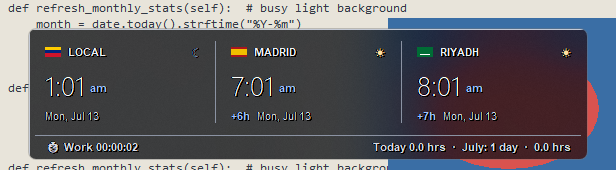
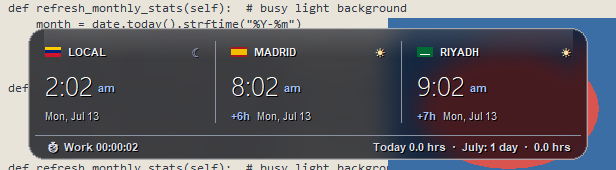
feat: live-rendered Liquid Glass replaces acrylic color-key approach
The acrylic theme painted the panel body in the transparent key color,
and Windows makes key-colored pixels mouse-transparent: right-clicks,
wheel, and drags fell through the glass to the window behind. The panel
body is now a live-rendered image: the window excludes itself from
screen capture (WDA_EXCLUDEFROMCAPTURE), grabs its own rectangle (which
then returns the backdrop), and processes it in PIL - gaussian blur at
half resolution, saturation boost, edge-band refraction via a zoomed
blend, wheel-controlled tint, specular rim, rounded-corner mask keyed
for click-through corners. Refreshes at 4fps idle / 15fps during drags,
pauses while hidden, and falls back to an opaque panel if the affinity
API fails. Caveat documented: the overlay is invisible to screenshots
and screen shares while glass is active.

diff --git a/clock.py b/clock.py
@@ -23,6 +23,10 @@ PAUSE_HOLD_SEC = 0.5
 # arrives on the overlay (leaving after a hover always hides immediately)
 PEEK_TIMEOUT_SEC = 2.5
 
+# Live liquid glass: backdrop refresh cadence (fast while dragging)
+GLASS_REFRESH_MS = 250
+GLASS_DRAG_REFRESH_MS = 66
+
 # Curated list of common timezones for the setup wizard dropdown
 COMMON_ZONES = [
     ("Local System Time", "Local"),
@@ -143,12 +147,12 @@ THEMES = {
         'sun': '#e8c47a',
         'moon': '#8fa8e8'
     },
-    # Liquid glass: card_bg equals the transparent key color, so the panel
-    # body punches through to the Windows acrylic backdrop (real blur);
-    # text and borders are drawn on top of the glass.
+    # Liquid glass: the panel body is a live-rendered image of the blurred
+    # backdrop (see render_glass), so its pixels are opaque and clickable.
+    # card_bg is only used by the popup menu and as the no-PIL fallback.
     'glass': {
         'bg': '#010101',
-        'card_bg': '#010101',
+        'card_bg': '#12141b',
         'card_border': '#c3c9d6',
         'divider': '#8b93a3',
         'text_main': '#ffffff',
@@ -310,13 +314,20 @@ class PopupMenu:
             self.close_all()
 
 
-# Conditional imports for System Tray support
+# Conditional imports: PIL powers the tray icon and the live glass theme
+HAS_PIL = False
+try:
+    from PIL import (Image, ImageDraw, ImageGrab, ImageTk,
+                     ImageFilter, ImageEnhance)
+    HAS_PIL = True
+except ImportError:
+    HAS_PIL = False
+
 HAS_TRAY = False
 try:
-    from PIL import Image, ImageDraw
     import pystray
     from pystray import MenuItem as item
-    HAS_TRAY = True
+    HAS_TRAY = HAS_PIL
 except ImportError:
     HAS_TRAY = False
 
@@ -350,6 +361,11 @@ class WorldClockApp:
         self.h_was_down = False     # tap H over the overlay to hide it
         self._tray_click_after = None
         self.tray_tooltip_counter = 9  # first refresh right after startup
+        self.glass_live = False     # live-rendered liquid glass active
+        self.glass_photo = None
+        self._glass_after = None
+        self._glass_masks = None
+        self._glass_boost = 0.0     # recent drag -> faster glass refresh
         self.stats_cache = None  # (month, today, unique_days, base_seconds, today_seconds)
 
         # If no clocks are configured (First run), show setup wizard
@@ -950,63 +966,140 @@ class WorldClockApp:
         if self.is_windows:
             self.root.wm_attributes("-transparentcolor", theme['bg'])
             is_glass = self.settings['theme'] == 'glass'
-            # On glass the wheel drives the acrylic tint strength instead:
-            # layered alpha stacked on the acrylic backdrop renders wrong
+            # On glass the wheel drives the tint strength instead: layered
+            # alpha stacked on the rendered glass just dims the text
             self.root.attributes(
                 '-alpha', 1.0 if is_glass else self.settings['opacity'])
-            self.apply_glass_effect(is_glass)
+            if is_glass:
+                self.start_glass_live()
+            else:
+                self.stop_glass_live()
         else:
             self.root.attributes('-alpha', self.settings['opacity'])
 
-    def apply_glass_effect(self, enable):
-        # Windows acrylic backdrop (SetWindowCompositionAttribute) behind the
-        # window: pixels of the transparent key color reveal blurred glass
-        # instead of plain desktop. Win11 also rounds the window corners so
-        # the slab itself has the panel shape. Undocumented but stable API;
-        # everything is guarded so failure just means no blur.
-        if not self.is_windows:
+    # ==========================================================================
+    # Live Liquid Glass
+    #
+    # The window is excluded from screen capture (WDA_EXCLUDEFROMCAPTURE),
+    # so grabbing its own rectangle returns exactly what is BEHIND it. That
+    # backdrop is blurred, saturated, edge-refracted, tinted and rim-lit in
+    # PIL, then painted as the panel body. The pixels are opaque, so mouse
+    # events work everywhere (the earlier acrylic color-key approach made
+    # the whole panel click-through). Side effect while glass is active:
+    # the overlay is invisible in screenshots and screen shares.
+    # ==========================================================================
+    def _root_hwnd(self):
+        import ctypes
+        return (ctypes.windll.user32.GetParent(self.root.winfo_id())
+                or self.root.winfo_id())
+
+    def start_glass_live(self):
+        if not (self.is_windows and HAS_PIL):
+            self.glass_live = False
             return
         try:
             import ctypes
+            ok = ctypes.windll.user32.SetWindowDisplayAffinity(
+                self._root_hwnd(), 0x11)  # WDA_EXCLUDEFROMCAPTURE
+            self.glass_live = bool(ok)
+        except Exception:
+            self.glass_live = False
+        if not self.glass_live:
+            return  # fallback: plain card_bg panel, everything still works
+        if self._glass_after is not None:
+            self.root.after_cancel(self._glass_after)
+            self._glass_after = None
+        self.glass_tick()
 
-            class ACCENT_POLICY(ctypes.Structure):
-                _fields_ = [('AccentState', ctypes.c_uint),
-                            ('AccentFlags', ctypes.c_uint),
-                            ('GradientColor', ctypes.c_uint),
-                            ('AnimationId', ctypes.c_uint)]
+    def stop_glass_live(self):
+        if self._glass_after is not None:
+            self.root.after_cancel(self._glass_after)
+            self._glass_after = None
+        self.glass_photo = None
+        self._glass_masks = None
+        if self.glass_live:
+            self.glass_live = False
+            try:
+                import ctypes
+                ctypes.windll.user32.SetWindowDisplayAffinity(
+                    self._root_hwnd(), 0)
+            except Exception:
+                pass
 
-            class WCA_DATA(ctypes.Structure):
-                _fields_ = [('Attribute', ctypes.c_int),
-                            ('Data', ctypes.c_void_p),
-                            ('SizeOfData', ctypes.c_size_t)]
+    def glass_tick(self):
+        self._glass_after = None
+        if self.settings['theme'] != 'glass' or not self.glass_live:
+            return
+        if not self.hidden:
+            try:
+                self.glass_photo = self.render_glass()
+            except Exception as e:
+                print("Glass render failed:", e)
+        fast = time.monotonic() - self._glass_boost < 1.0
+        self._glass_after = self.root.after(
+            GLASS_DRAG_REFRESH_MS if fast else GLASS_REFRESH_MS,
+            self.glass_tick)
 
-            hwnd = ctypes.windll.user32.GetParent(self.root.winfo_id())
-            if not hwnd:
-                hwnd = self.root.winfo_id()
+    def glass_tint_alpha(self):
+        # Wheel position maps to tint strength: down = clearer glass
+        lo, hi = OPACITY_LEVELS[0], OPACITY_LEVELS[-1]
+        return int(0x38 + (self.settings['opacity'] - lo)
+                   * (0xE0 - 0x38) / (hi - lo))
 
-            accent = ACCENT_POLICY()
-            accent.AccentState = 4 if enable else 0  # ACRYLIC_BLURBEHIND / DISABLED
-            accent.AccentFlags = 2 if enable else 0
-            # AABBGGRR tint blended into the blur (dark, slightly blue).
-            # The opacity setting scales the tint: wheel down = clearer
-            # glass, wheel up = more solid glass
-            op = self.settings['opacity']
-            lo, hi = OPACITY_LEVELS[0], OPACITY_LEVELS[-1]
-            tint_a = int(0x38 + (op - lo) * (0xE0 - 0x38) / (hi - lo))
-            accent.GradientColor = ((tint_a << 24) | 0x1E1612) if enable else 0
-            data = WCA_DATA()
-            data.Attribute = 19  # WCA_ACCENT_POLICY
-            data.Data = ctypes.cast(ctypes.pointer(accent), ctypes.c_void_p)
-            data.SizeOfData = ctypes.sizeof(accent)
-            ctypes.windll.user32.SetWindowCompositionAttribute(
-                hwnd, ctypes.byref(data))
+    def glass_masks(self, w, h, tint_a):
+        # Static layers, rebuilt only when size or tint changes
+        if self._glass_masks and self._glass_masks.get('sig') == (w, h, tint_a):
+            return self._glass_masks
+        r = 16
+        rnd = Image.new('L', (w, h), 0)
+        ImageDraw.Draw(rnd).rounded_rectangle((0, 0, w - 1, h - 1), r, fill=255)
+        inner = Image.new('L', (w, h), 0)
+        ImageDraw.Draw(inner).rounded_rectangle(
+            (14, 14, w - 15, h - 15), r, fill=255)
+        edge = Image.composite(rnd, Image.new('L', (w, h), 0),
+                               inner.point(lambda v: 255 - v))
+        edge = edge.filter(ImageFilter.GaussianBlur(6))
+        spec = Image.new('RGBA', (w, h), (0, 0, 0, 0))
+        d = ImageDraw.Draw(spec)
+        d.rounded_rectangle((0, 0, w - 1, h - 1), r,
+                            outline=(255, 255, 255, 150), width=1)
+        d.rounded_rectangle((1, 1, w - 2, h - 2), r - 1,
+                            outline=(255, 255, 255, 55), width=1)
+        for i in range(28):  # top sheen fading downward
+            a = int(36 * (1 - i / 28))
+            d.line((r, 2 + i, w - r, 2 + i), fill=(255, 255, 255, a))
+        spec.putalpha(Image.composite(
+            spec.getchannel('A'), Image.new('L', (w, h), 0), rnd))
+        self._glass_masks = {
+            'sig': (w, h, tint_a),
+            'round': rnd,
+            'edge': edge,
+            'spec': spec,
+            'tint': Image.new('RGBA', (w, h), (14, 16, 24, tint_a)),
+            'keybg': Image.new('RGB', (w, h), self.get_theme()['bg']),
+        }
+        return self._glass_masks
 
-            # DWMWA_WINDOW_CORNER_PREFERENCE (Win11; harmless no-op on Win10)
-            pref = ctypes.c_int(2 if enable else 0)  # ROUND / DEFAULT
-            ctypes.windll.dwmapi.DwmSetWindowAttribute(
-                hwnd, 33, ctypes.byref(pref), 4)
-        except Exception as e:
-            print("Glass effect unavailable:", e)
+    def render_glass(self):
+        x, y = self.root.winfo_rootx(), self.root.winfo_rooty()
+        w, h = self.get_window_size()
+        grab = ImageGrab.grab(bbox=(x, y, x + w, y + h)).convert('RGB')
+        # Process at half resolution: ~4x cheaper, visually identical blur
+        img = grab.resize((max(1, w // 2), max(1, h // 2)), Image.BILINEAR)
+        img = img.filter(ImageFilter.GaussianBlur(6))
+        img = ImageEnhance.Color(img).enhance(1.5)
+        img = ImageEnhance.Brightness(img).enhance(0.9)
+        img = img.resize((w, h), Image.BILINEAR)
+        m = self.glass_masks(w, h, self.glass_tint_alpha())
+        # Edge refraction: a zoomed copy shows through in the edge band
+        zoom = img.resize((int(w * 1.10), int(h * 1.25)), Image.BILINEAR)
+        zx, zy = (zoom.width - w) // 2, (zoom.height - h) // 2
+        img = Image.composite(zoom.crop((zx, zy, zx + w, zy + h)), img, m['edge'])
+        img = Image.alpha_composite(img.convert('RGBA'), m['tint'])
+        img = Image.alpha_composite(img, m['spec']).convert('RGB')
+        # Corners take the key color and stay transparent + click-through
+        img = Image.composite(img, m['keybg'], m['round'])
+        return ImageTk.PhotoImage(img)
 
     # ==========================================================================
     # Window Layout Positioning
@@ -1148,6 +1241,7 @@ class WorldClockApp:
             self.press_on_pause = False
             self.root.attributes('-alpha', 0.3)
         self.drag_moved = True
+        self._glass_boost = time.monotonic()  # glass follows the drag faster
         x = self.root.winfo_x() + (event.x - self.drag_start_x)
         y = self.root.winfo_y() + (event.y - self.drag_start_y)
         w, h = self.get_window_size()
@@ -1343,12 +1437,17 @@ class WorldClockApp:
         status_h = 24 if layout == 'horizontal' else 52
         status_sep_y = panel_y2 - status_h
 
-        self.draw_rounded_rect(
-            panel_x1, panel_y1, panel_x2, panel_y2, 8 if is_glass else 14,
-            fill=theme['card_bg'],
-            outline=theme['card_border'],
-            width=1
-        )
+        if is_glass and self.glass_photo is not None:
+            # Panel body = live-rendered glass (opaque, so clicks work);
+            # its own mask supplies the border, sheen, and keyed corners
+            self.canvas.create_image(0, 0, anchor='nw', image=self.glass_photo)
+        else:
+            self.draw_rounded_rect(
+                panel_x1, panel_y1, panel_x2, panel_y2, 8 if is_glass else 14,
+                fill=theme['card_bg'],
+                outline=theme['card_border'],
+                width=1
+            )
 
         # Hairline between the clocks and the status strip
         self.canvas.create_line(

diff --git a/test_wheel_stats.py b/test_wheel_stats.py
@@ -338,11 +338,19 @@ def run_tests(app):
                 'sun', 'moon'}
     check('raycast and glass themes are complete',
           all(required <= set(clock.THEMES[t]) for t in ('raycast', 'glass')))
-    check('glass panel body punches through to the acrylic backdrop',
-          clock.THEMES['glass']['card_bg'] == clock.THEMES['glass']['bg'])
+    check('glass card_bg is a real color (key-colored pixels swallow clicks)',
+          clock.THEMES['glass']['card_bg'] != clock.THEMES['glass']['bg'])
     app.change_theme('glass')
     check('glass theme applies without error',
           app.settings['theme'] == 'glass')
+    check('glass live pipeline engaged', app.glass_live)
+    if app.glass_live:
+        check('glass renders a live backdrop frame',
+              app.render_glass() is not None)
+    app.show_context_menu(FakeClick())
+    check('context menu opens on glass',
+          app.context_popup is not None)
+    app.context_popup.close_all()
     app.change_opacity(0.5)
     check('glass pins window alpha to 1.0 (wheel drives the tint)',
           abs(float(app.root.attributes('-alpha')) - 1.0) < 0.001)

diff --git a/README.md b/README.md
@@ -17,7 +17,7 @@ A Python desktop overlay, built with Tkinter, that shows your local time and up 
 - **Themed context menu**: the right-click menu is drawn with the active theme (panel colors, border, hover accent) instead of the native white system menu, and restyles instantly when you switch themes.
 - **Hide to tray**: tap H over the overlay to hide it instantly (instant on purpose: holding a key leaks key-repeat into the window you're typing in); the tray icon stays. A single click on the tray icon peeks — the overlay shows until the mouse leaves it, then fades out over half a second (moving back onto it cancels the fade) — and a double click brings it back for good.
 - **Tray tooltip**: hovering the tray icon shows the session timer plus today's and the month's hours — no click needed, works while the overlay is hidden.
-- **Six themes**: Frosted Dark, Frosted Light, Cyberpunk Neon, Nordic Frost, Raycast Dark (flat near-black, hairline borders), and Liquid Glass — real Windows acrylic blur behind the panel, so text stays readable over any window. Liquid Glass looks best at 100% opacity.
+- **Six themes**: Frosted Dark, Frosted Light, Cyberpunk Neon, Nordic Frost, Raycast Dark (flat near-black, hairline borders), and Liquid Glass — a live-rendered glass panel: the app samples what's behind the window and re-renders it with blur, saturation, edge refraction, and a specular rim, so text stays readable over anything. On Liquid Glass the scroll wheel adjusts the glass tint instead of window opacity. Two side notes: the backdrop refreshes ~4×/s (a bit faster while dragging), and while this theme is active the overlay is invisible in screenshots and screen shares (it excludes itself from capture to sample its backdrop).
 - **Translucency**: set the overlay between 30% and 100% opacity from the right-click menu, or scroll the mouse wheel while hovering the overlay.
 - **Readable on light backgrounds**: secondary text (labels, dates, status bar) is near-white — near-black in the light theme — and every text is drawn with a 1px contrast shadow, so the translucent overlay stays legible over white windows.
 - **Click-through (Windows)**: clicks on the empty background pass through to the window underneath.